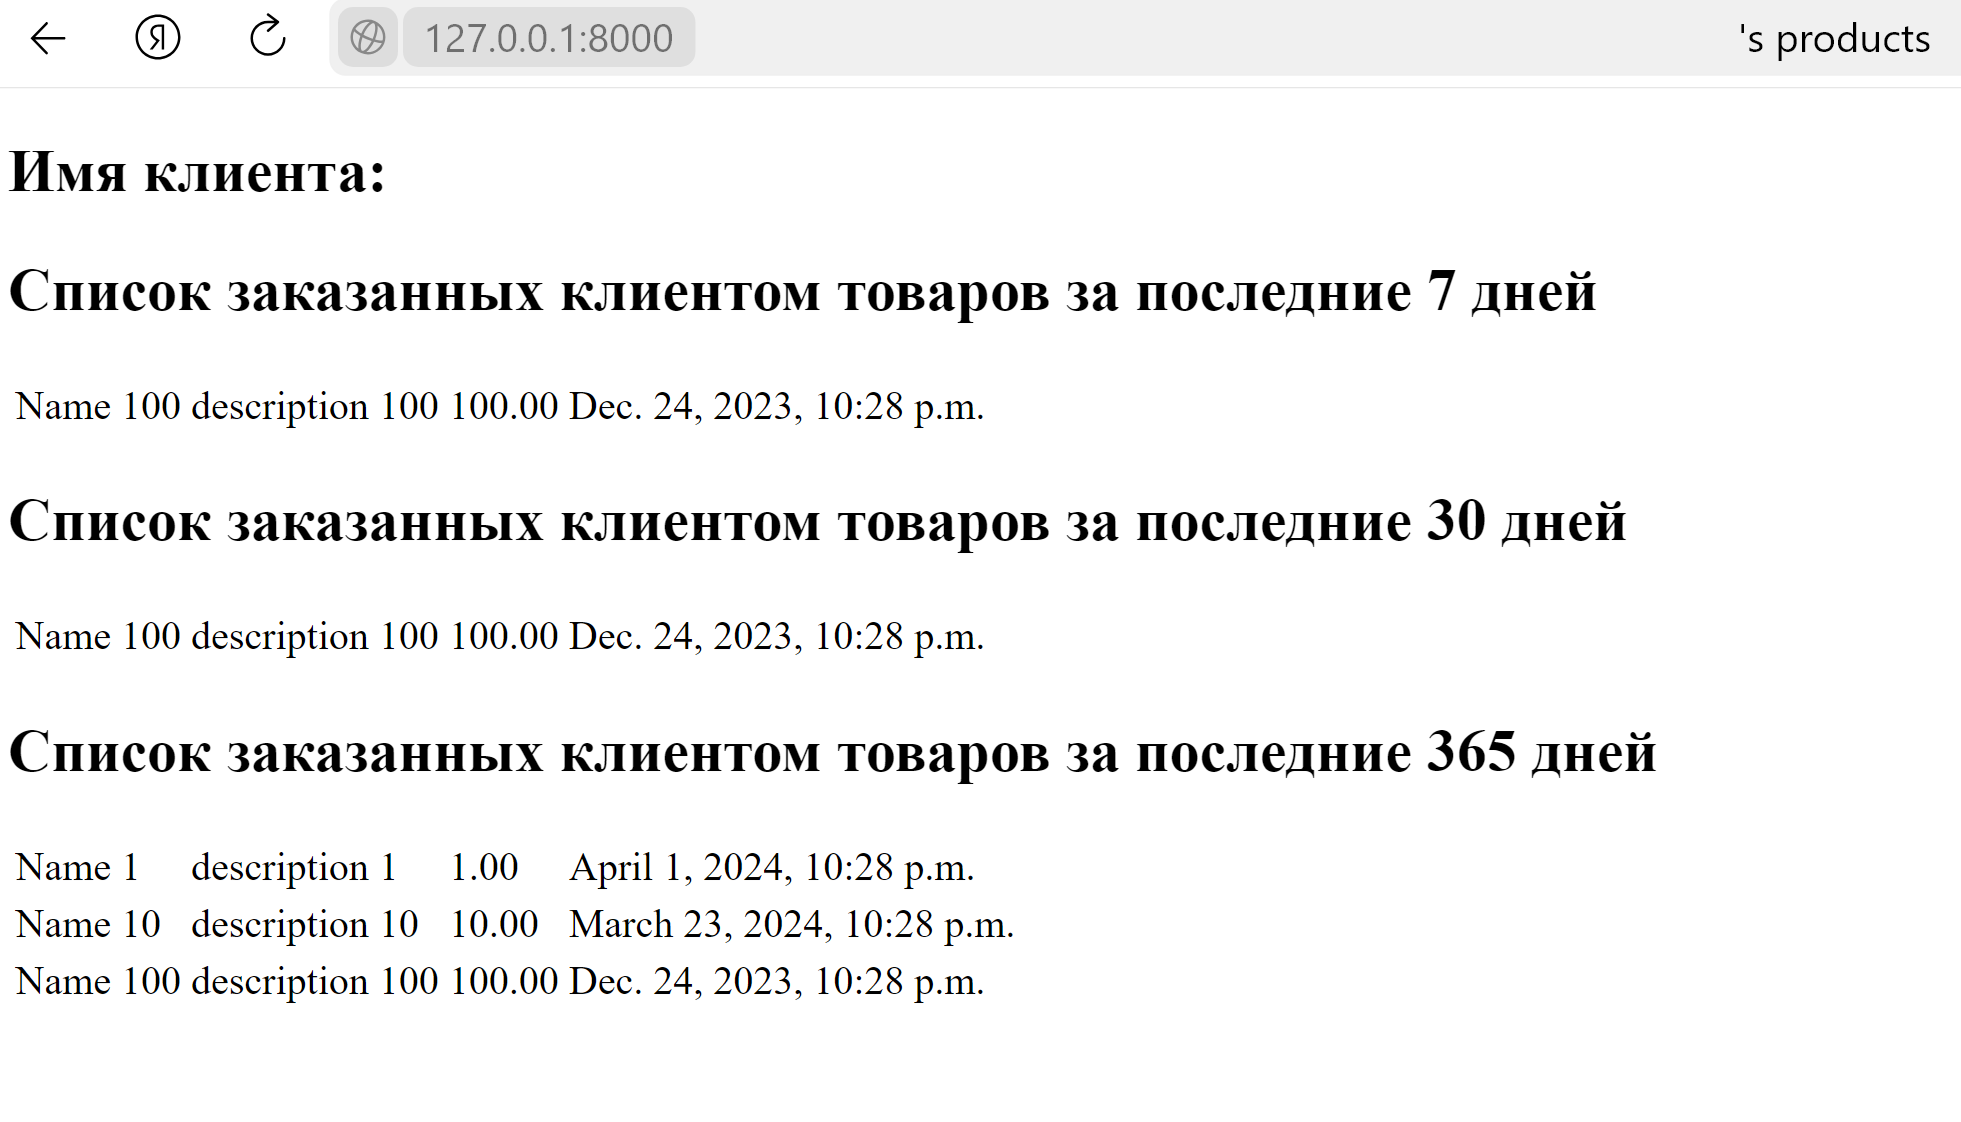
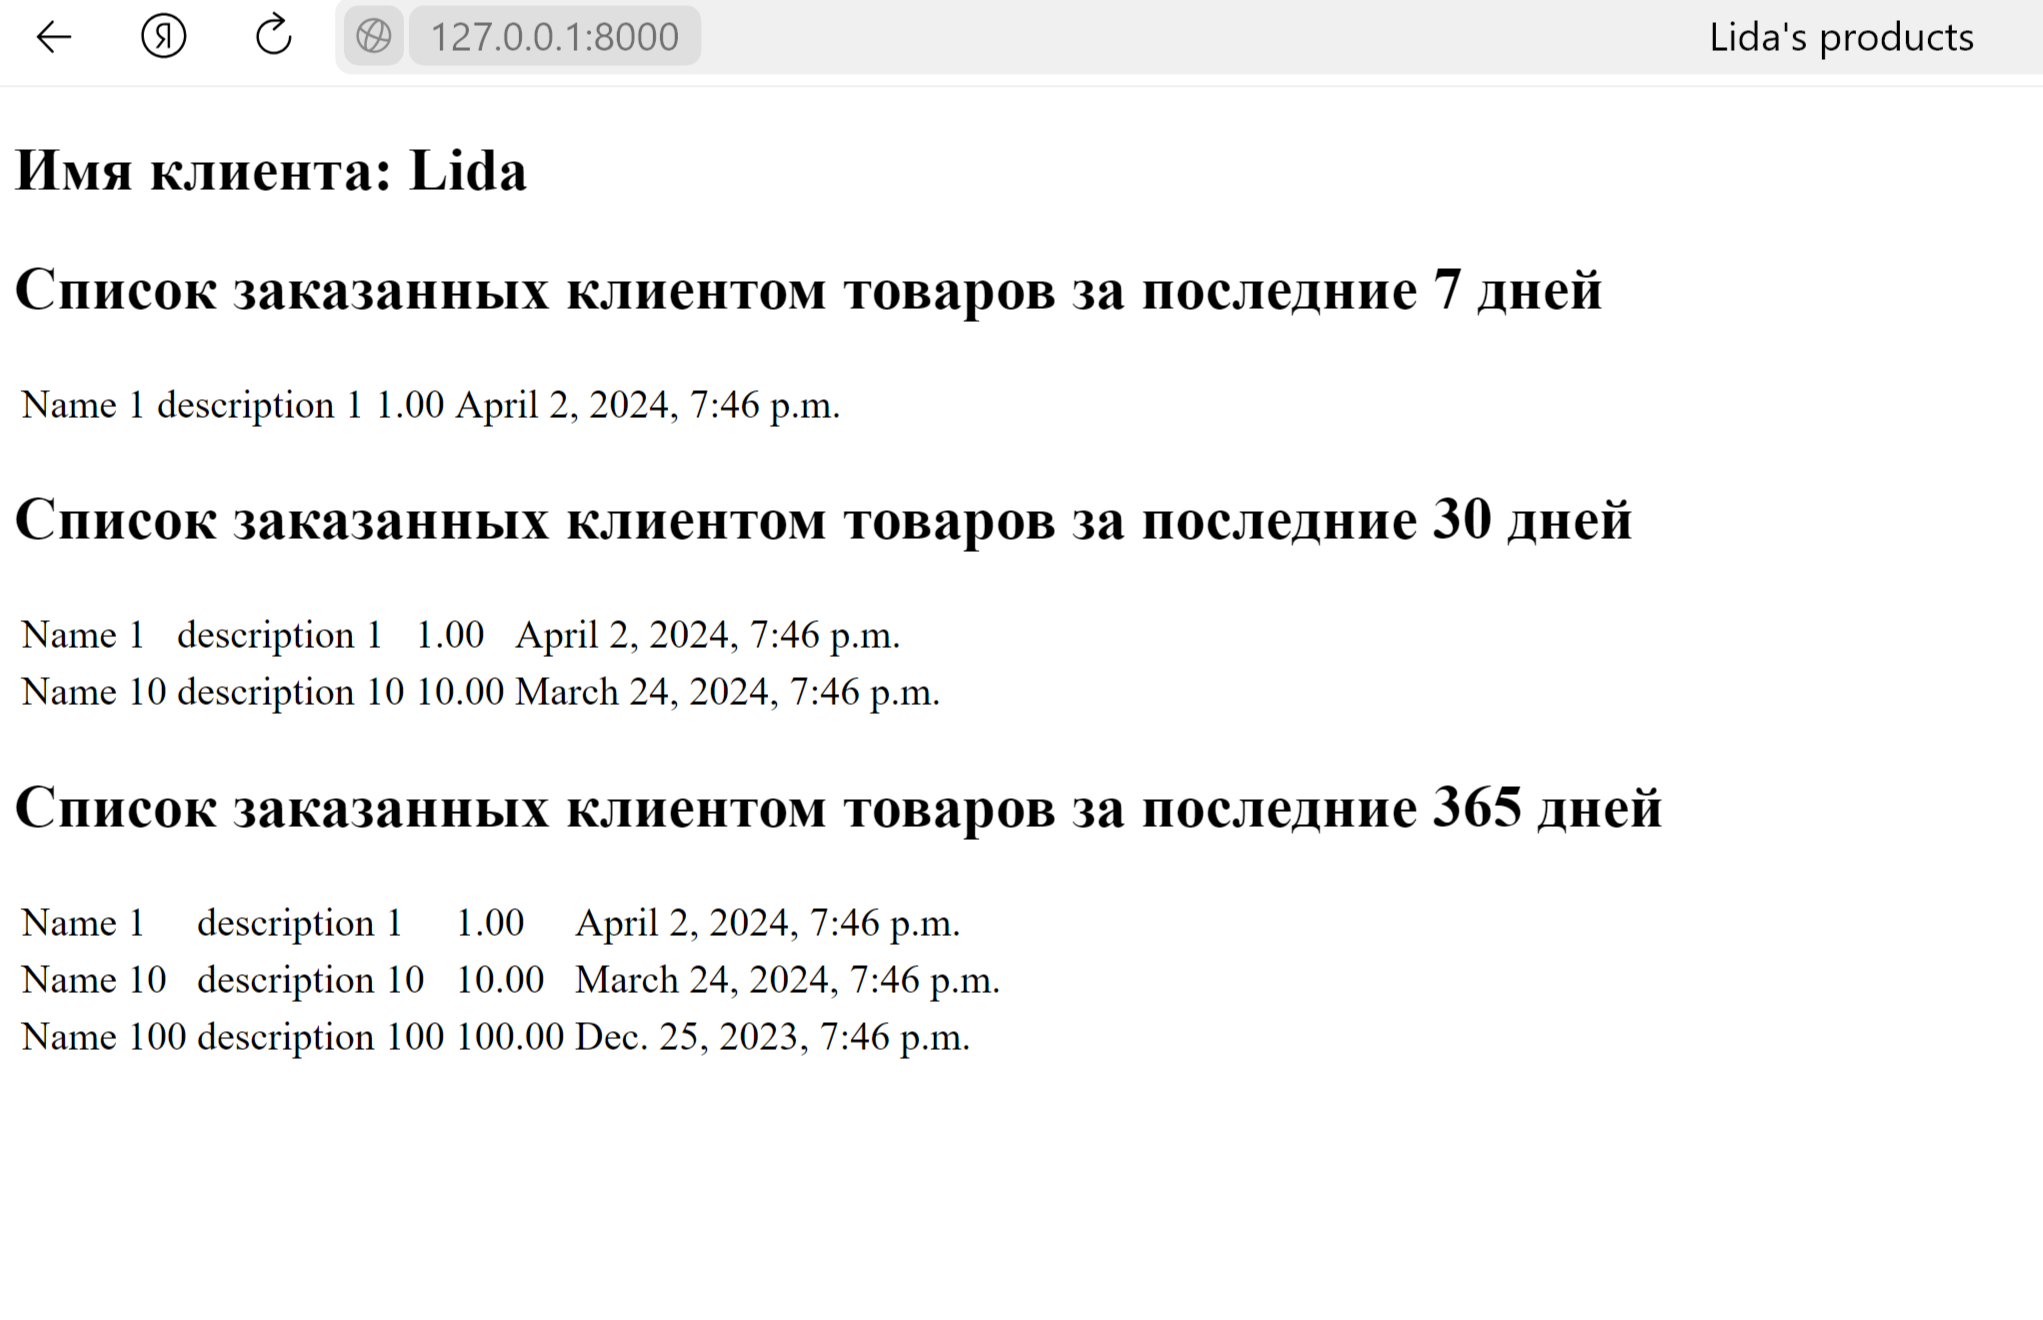
homework 3 fix

diff --git a/myproject/myapp3/views.py b/myproject/myapp3/views.py
@@ -20,5 +20,5 @@ def view_show_products(request, client_name):
     date_7 = timezone.now() - timedelta(days=7)
     products_7 = [i for i in products_30 if i.date > date_7]
 
-    context = {client: client, 'products_7': products_7, 'products_30': products_30, 'products_365': products_365}
+    context = {'client': client, 'products_7': products_7, 'products_30': products_30, 'products_365': products_365}
     return render(request, 'myapp3/view_show_products.html', context)
